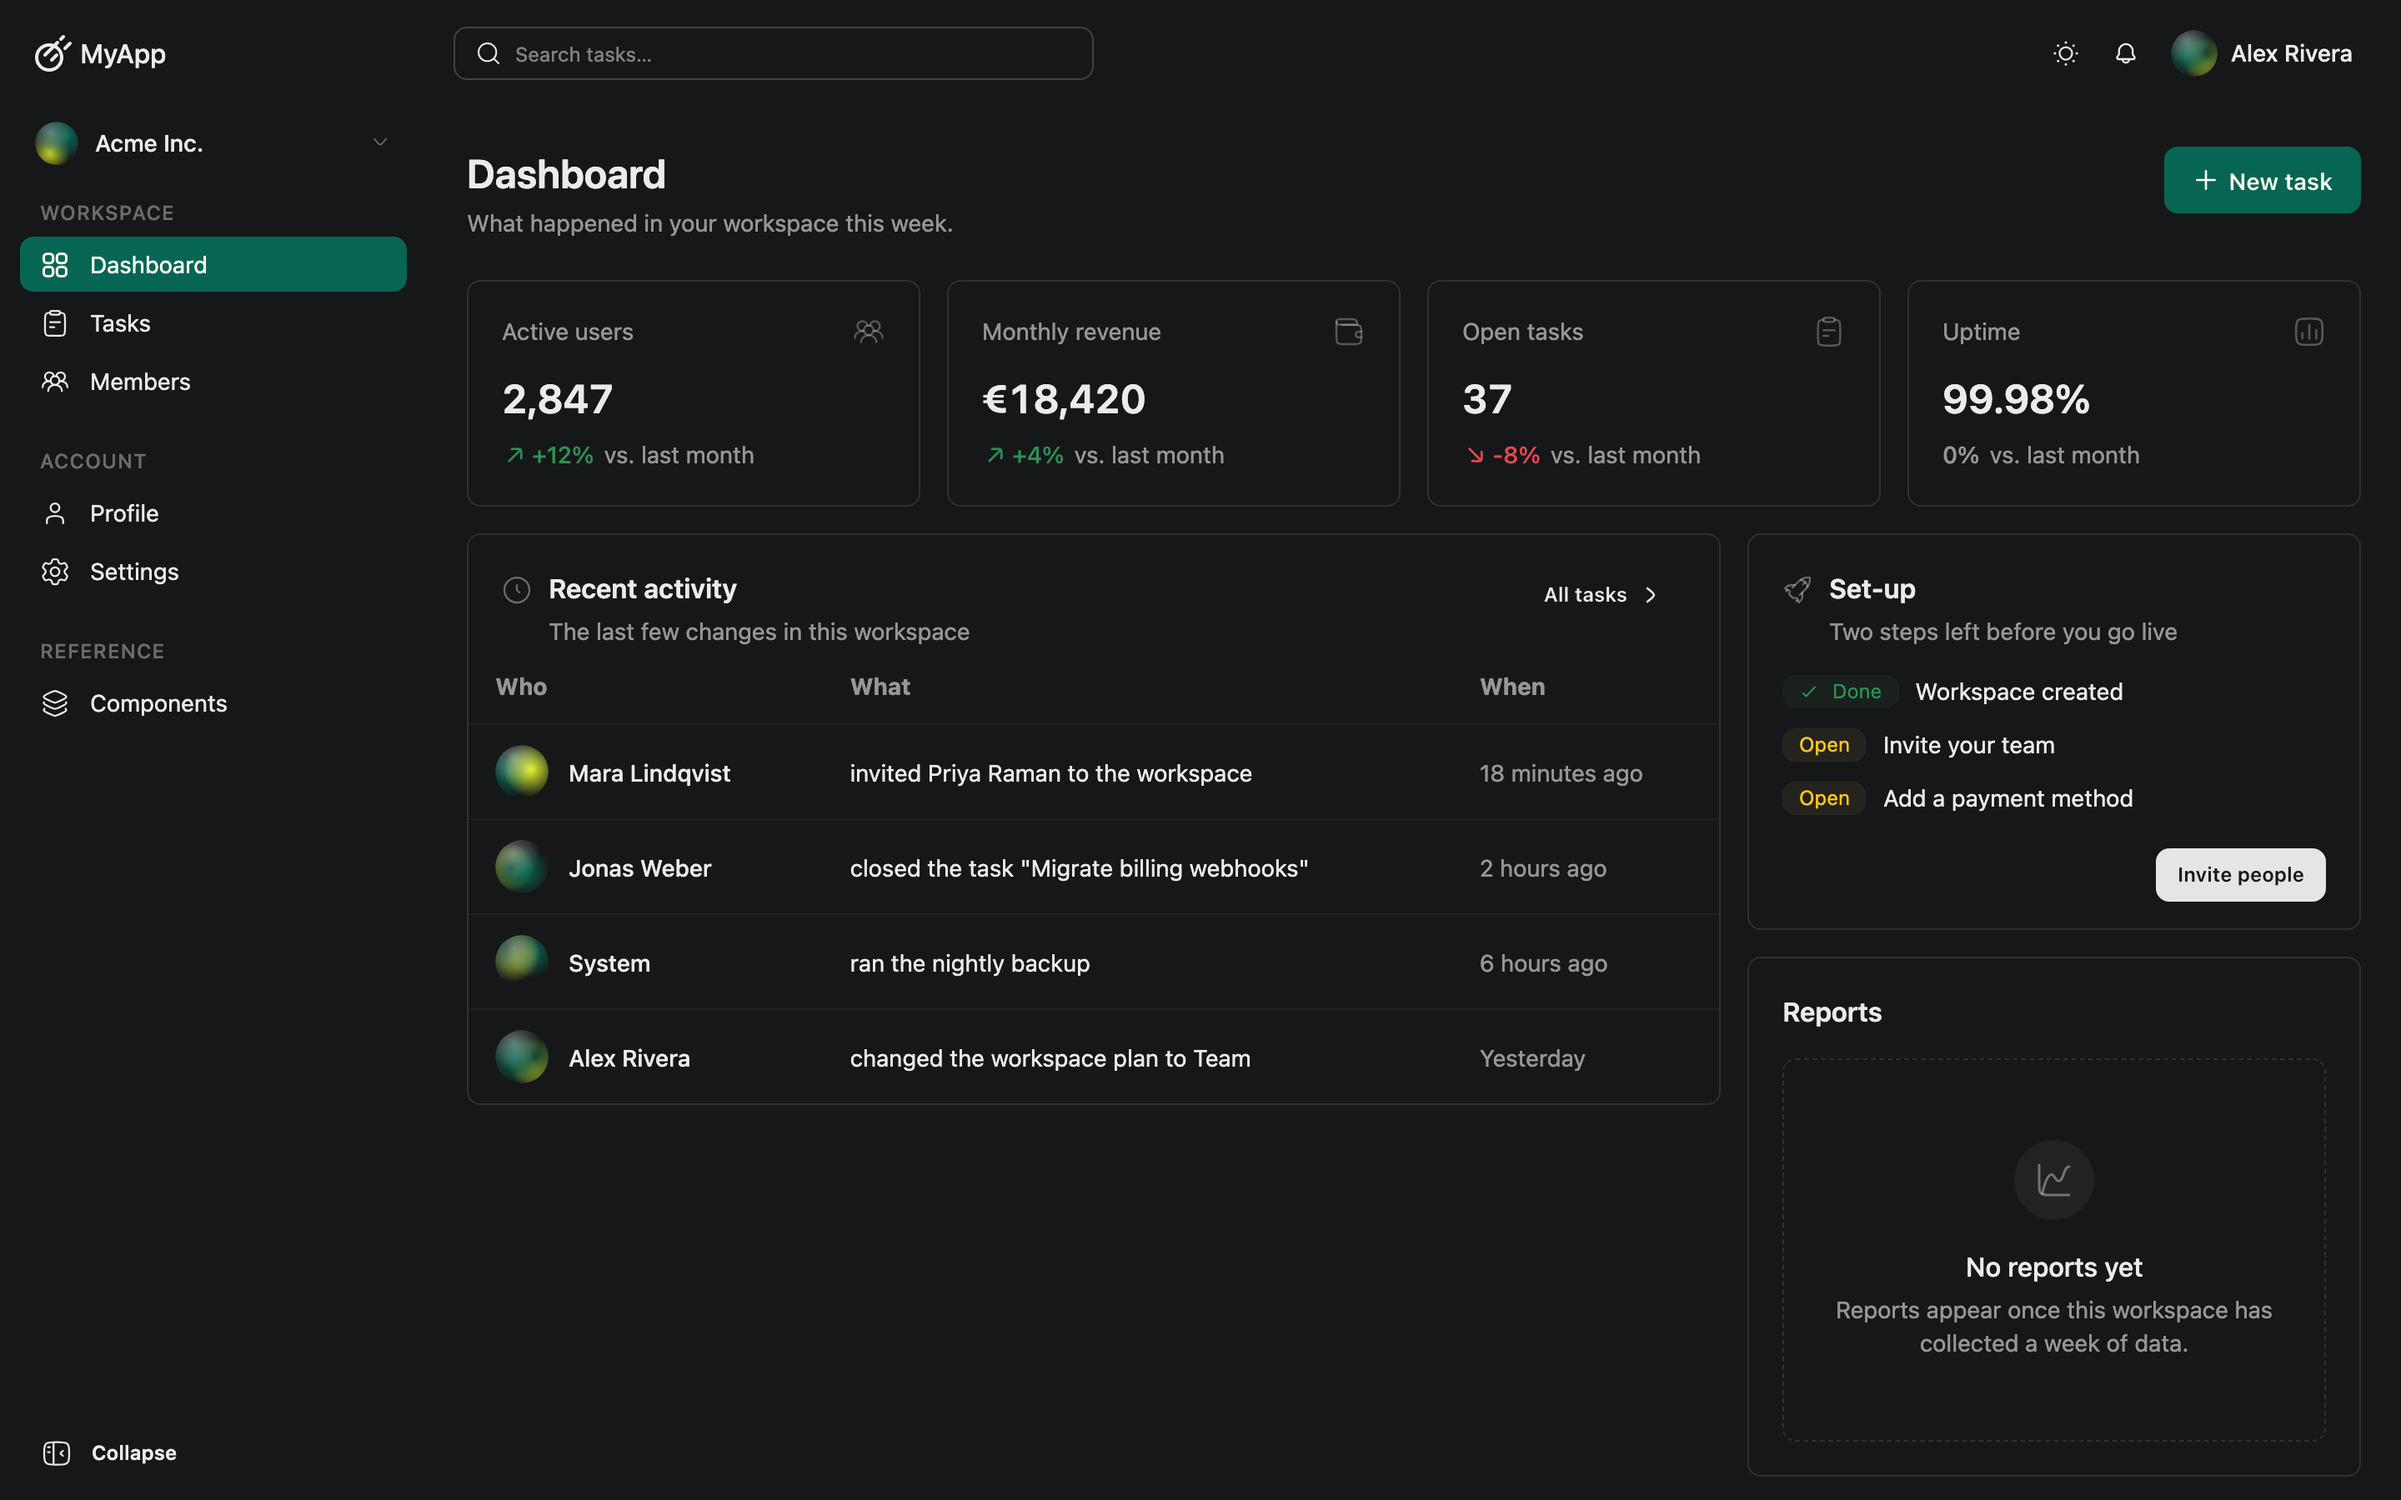
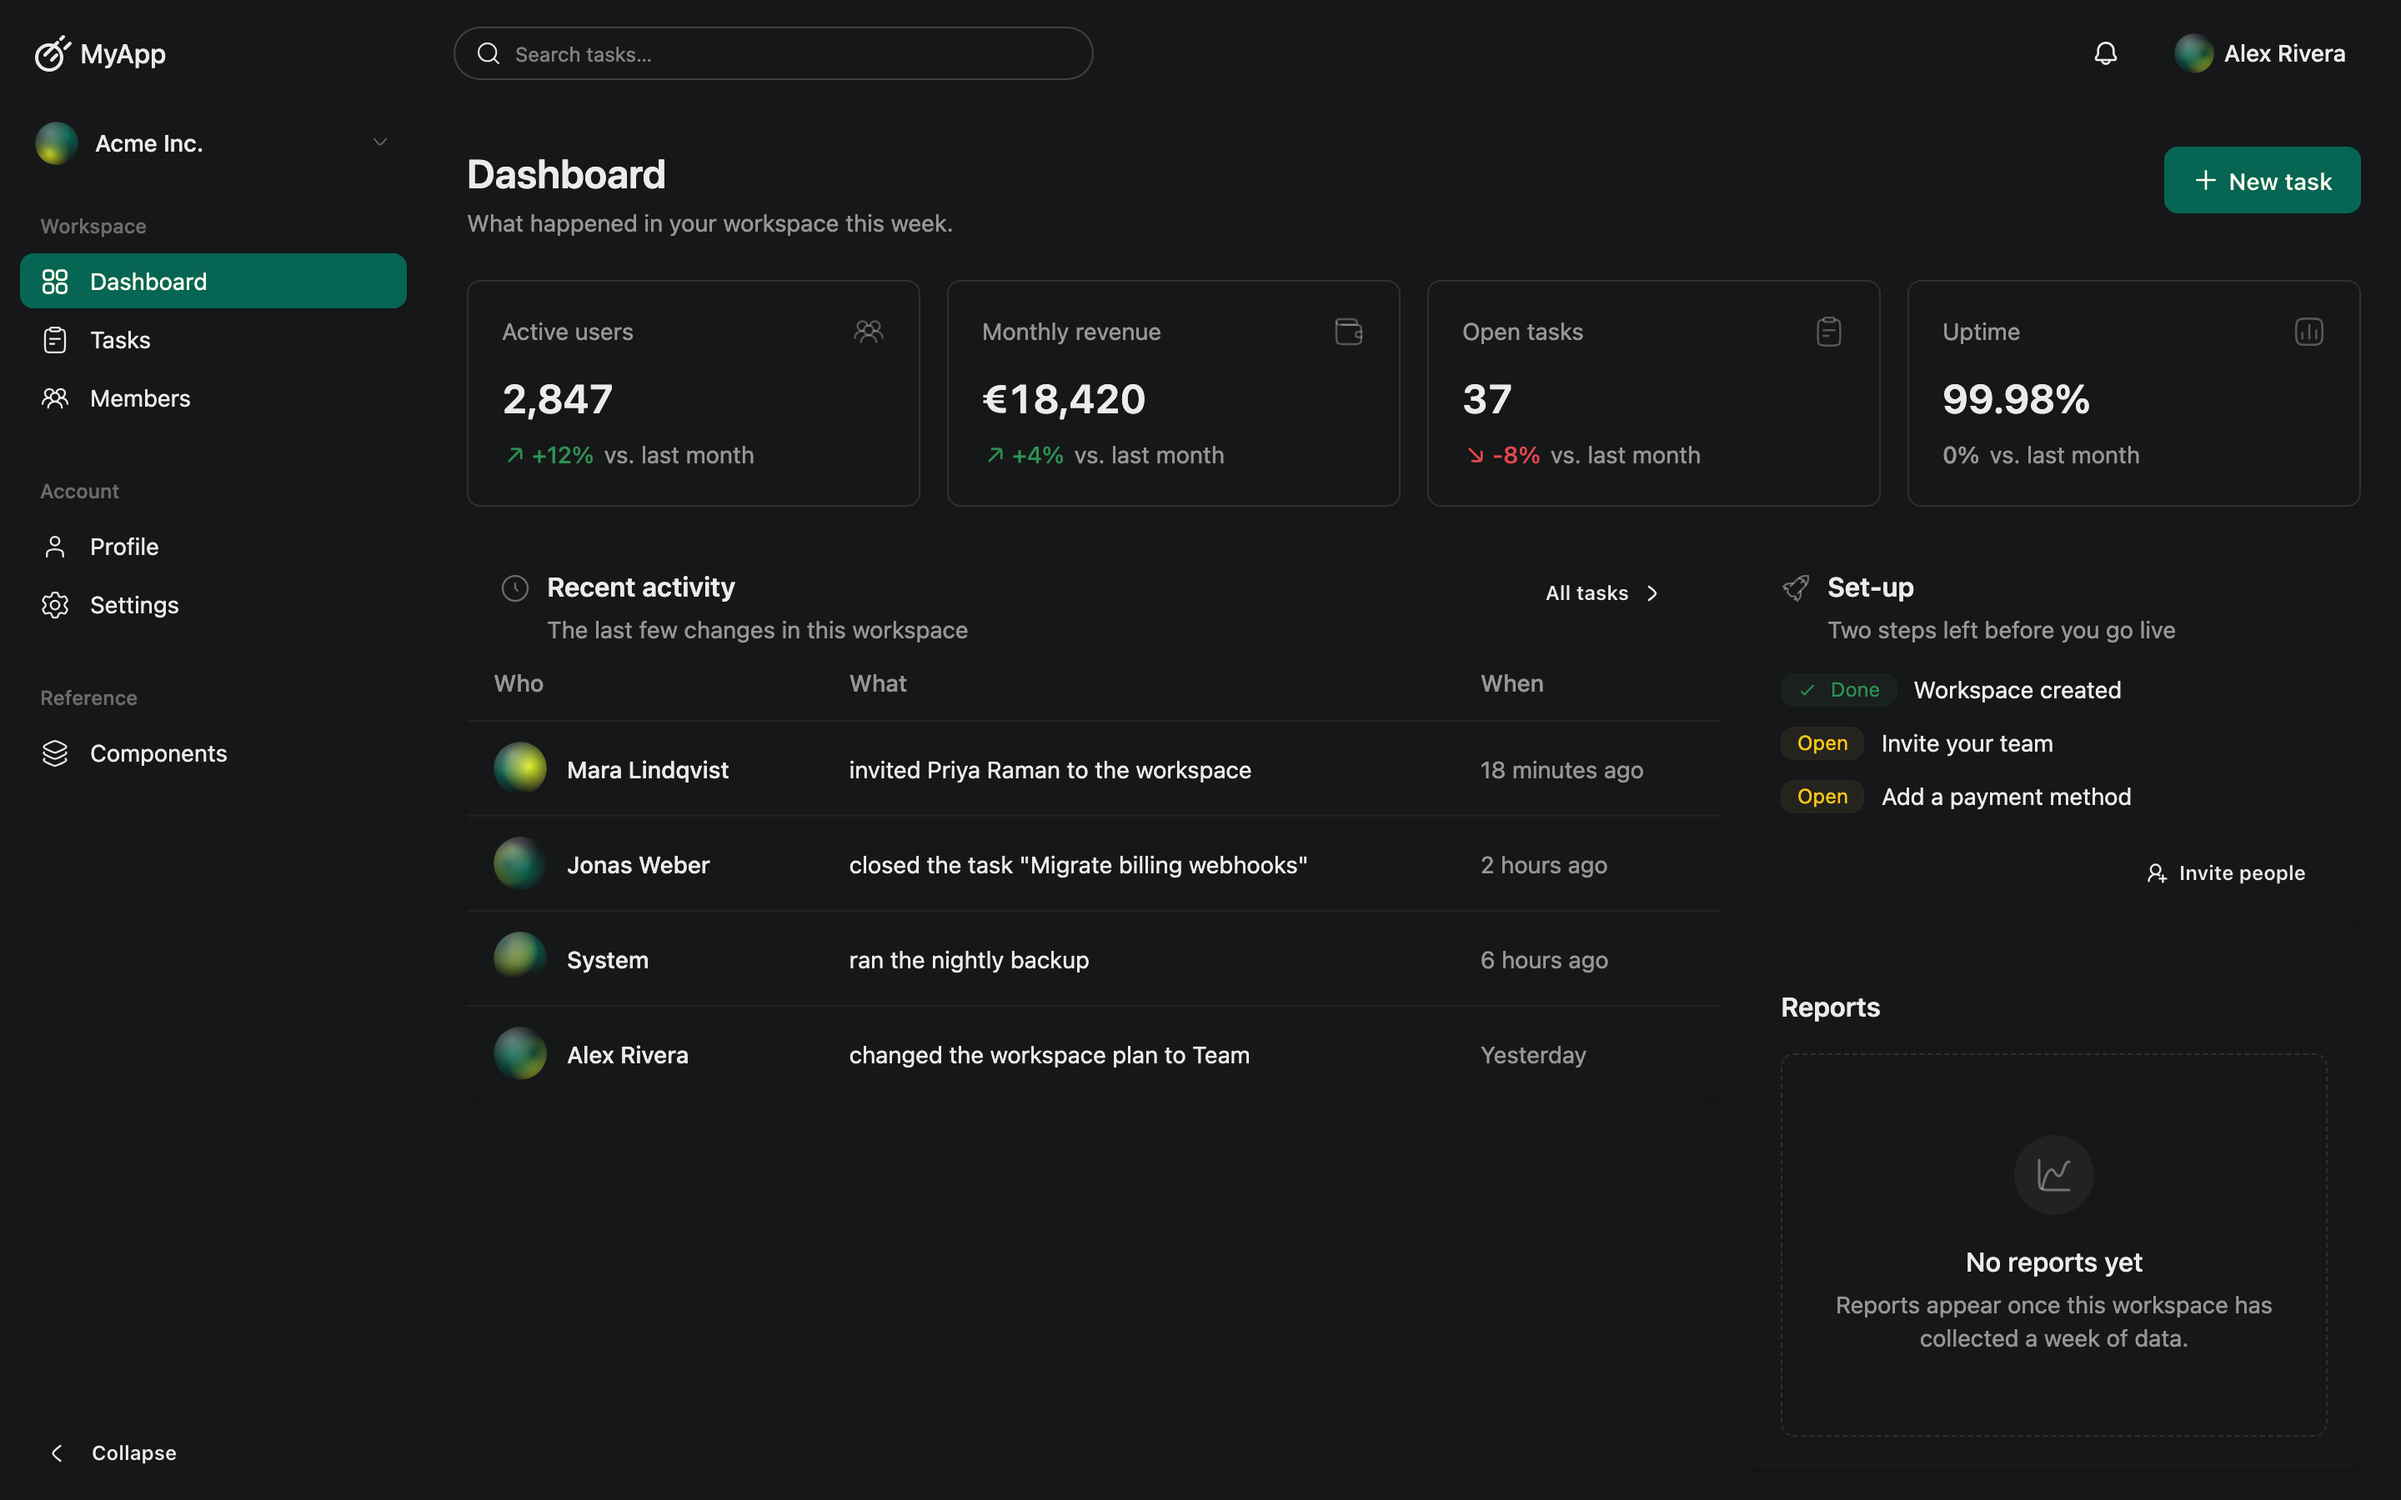
Point the public header at the app when signed in
Sending a signed-in visitor from the landing page to the login form is a
dead end, so the one button in the public header now reads "Dashboard" and
links to the app once there is a session. It reads a new `getIsSignedIn`
query, which returns a boolean and nothing else — that header renders on
pages any visitor can reach, so a name or an email has no business
travelling there.

Also in here:

- Sidebar: the collapse button is the shared Button component now. That
  needed `title` and `ariaExpanded` on Button — the collapsed sidebar hides
  the visible label, so the title carries the accessible name, and
  aria-expanded reports the state.
- Sidebar: the section headings kept their new `menu-title` styling but got
  `sidebar-label` back; without it they stayed visible when collapsed and
  were clipped at 72px.
- UserMenu: dropped an import that was left unused.

Screenshots refreshed for the topbar, sidebar and card tweaks. `login.png`
is unchanged, so it is not in this commit.

diff --git a/src/lib/components/layout/Sidebar.svelte b/src/lib/components/layout/Sidebar.svelte
@@ -1,5 +1,6 @@
 <script lang="ts">
 	import { page } from '$app/state';
+	import Button from '$components/elements/Button.svelte';
 	import Icon from '$components/elements/Icon.svelte';
 	import Logo from './Logo.svelte';
 	import { appNavigation, isActive } from './navigation';
@@ -36,9 +37,9 @@
 	<nav class="flex-1 space-y-6 overflow-y-auto px-3 pb-4">
 		{#each appNavigation as section (section.label)}
 			<div>
-				<p
-					class="sidebar-label px-3 pb-1.5 text-xs font-medium tracking-wider text-base-content/40 uppercase"
-				>
+				<!-- `sidebar-label` is what hides this when the sidebar collapses;
+				     without it the heading stays and gets clipped at 72px. -->
+				<p class="sidebar-label menu-title">
 					{section.label}
 				</p>
 
@@ -70,17 +71,22 @@
 	<!-- Collapsing only exists on the desktop layout; below `lg` the sidebar is an
 	     off-canvas drawer that is either open or gone. -->
 	<div class="hidden shrink-0 p-3 lg:block">
-		<button
+		<Button
 			type="button"
-			class="sidebar-item btn w-full justify-start gap-3 btn-ghost btn-sm"
+			color="ghost"
+			size="sm"
+			class="sidebar-item w-full justify-start gap-3"
 			onclick={() => sidebar.toggle()}
-			aria-expanded={!sidebar.collapsed}
+			ariaExpanded={!sidebar.collapsed}
 			title={sidebar.collapsed ? 'Expand sidebar' : 'Collapse sidebar'}
 		>
-			<span class={['inline-flex transition-transform', sidebar.collapsed && 'rotate-180']}>
-				<Icon name="ArrowLeft01Icon" size={18} />
-			</span>
+			{#snippet iconLeft()}
+				<span class={['inline-flex transition-transform', sidebar.collapsed && 'rotate-180']}>
+					<Icon name="ArrowLeft01Icon" size={18} />
+				</span>
+			{/snippet}
+
 			<span class="sidebar-label">Collapse</span>
-		</button>
+		</Button>
 	</div>
 </aside>

diff --git a/src/lib/remotes/auth.remote.ts b/src/lib/remotes/auth.remote.ts
@@ -4,7 +4,7 @@ import { z } from 'zod';
 import { internalPath } from '$helper/form';
 import { auth } from '$server/auth';
 import { config } from '$server/config';
-import { fail, isAuthError, requestHeaders } from '$server/guard';
+import { fail, isAuthError, requestHeaders, getSession } from '$server/guard';
 import { emailSchema, passwordSchema, personNameSchema } from '$server/schemas';
 
 /**
@@ -27,6 +27,16 @@ const redirectToSchema = z.string().max(500).optional();
 export const getAuthProviders = query(async () =>
 	(['google', 'github'] as const).filter((provider) => config.auth.socialProviders[provider])
 );
+
+/**
+ * Whether anybody is signed in — nothing more.
+ *
+ * The public header uses it to point at the dashboard instead of the login
+ * form. Deliberately a boolean rather than the session: this runs on pages any
+ * visitor can reach, and a name or an email has no business travelling there.
+ * `getSession` never throws, so this is safe to await outside a boundary.
+ */
+export const getIsSignedIn = query(async () => !!(await getSession()));
 
 export const login = form(
 	z.object({

diff --git a/src/routes/(public)/+layout.svelte b/src/routes/(public)/+layout.svelte
@@ -3,8 +3,13 @@
 	import Button from '$components/elements/Button.svelte';
 	import Footer from '$components/layout/Footer.svelte';
 	import Logo from '$components/layout/Logo.svelte';
+	import { getIsSignedIn } from '$remotes/auth.remote';
 
 	let { children }: { children: Snippet } = $props();
+
+	// Sending a signed-in visitor to the login form is a dead end, so the one
+	// button in this header points at the app instead once there is a session.
+	const signedIn = $derived(await getIsSignedIn());
 </script>
 
 <!-- The public surface: landing page, the component showcase and the legal
@@ -14,7 +19,12 @@
 	<header>
 		<div class="mx-auto flex w-full max-w-5xl items-center justify-between gap-4 py-4">
 			<Logo />
-			<Button href="/login" color="primary" size="sm" rounded>Sign in</Button>
+
+			{#if signedIn}
+				<Button href="/dashboard" color="primary" size="sm" rounded>Dashboard</Button>
+			{:else}
+				<Button href="/login" color="primary" size="sm" rounded>Sign in</Button>
+			{/if}
 		</div>
 	</header>
 

diff --git a/src/lib/components/layout/Topbar.svelte b/src/lib/components/layout/Topbar.svelte
@@ -13,7 +13,7 @@
 </script>
 
 <header
-	class="sticky top-0 z-30 flex h-16 shrink-0 items-center gap-2 bg-base-100/50 px-4 backdrop-blur-xs"
+	class="sticky top-0 z-30 flex h-16 shrink-0 items-center gap-2 bg-base-100/90 px-4 backdrop-blur-xs"
 >
 	<!-- The label toggles the drawer checkbox in `AppShell`; it needs no script,
 	     which is why the mobile menu works before hydration. -->
@@ -27,7 +27,7 @@
 
 	<!-- A plain GET form, so pressing Enter navigates even without JavaScript. -->
 	<form method="GET" action="/crud" class="hidden flex-1 md:block">
-		<label class="input max-w-sm input-sm">
+		<label class="input max-w-sm rounded-full input-sm">
 			<Icon name="Search01Icon" size={16} />
 			<input type="search" name="q" placeholder="Search tasks…" aria-label="Search tasks" />
 		</label>
@@ -37,7 +37,6 @@
 		<Button
 			href="/dashboard"
 			color="ghost"
-			size="sm"
 			modifier="circle"
 			icon="Notification01Icon"
 			ariaLabel="Notifications"

diff --git a/src/lib/components/elements/Button.svelte b/src/lib/components/elements/Button.svelte
@@ -51,6 +51,14 @@
 		rounded?: boolean;
 		tooltip?: string;
 		tooltipPosition?: TooltipPosition;
+		/**
+		 * Native browser hint. Unlike `tooltip` (the daisyUI bubble) this is also
+		 * what assistive tech falls back to for the button's name when the visible
+		 * label is hidden — as in the collapsed sidebar.
+		 */
+		title?: string;
+		/** For buttons that toggle something open and shut, e.g. the sidebar. */
+		ariaExpanded?: boolean;
 		responsive?: boolean;
 		preloadData?: boolean;
 	};
@@ -84,6 +92,8 @@
 		tooltip,
 		ariaLabel,
 		tooltipPosition = 'top',
+		title,
+		ariaExpanded,
 		responsive = false,
 		preloadData = true
 	}: Props = $props();
@@ -140,6 +150,8 @@
 	<svelte:element
 		this={href ? 'a' : 'button'}
 		aria-label={ariaLabel}
+		aria-expanded={ariaExpanded}
+		{title}
 		role={href ? 'link' : 'button'}
 		tabindex="0"
 		type={href ? undefined : type}

diff --git a/src/lib/components/layout/UserMenu.svelte b/src/lib/components/layout/UserMenu.svelte
@@ -22,8 +22,8 @@
      state of our own. `keepFocus`/`closeDropdown` handle the browsers that do
      not focus clicked menu items; see `elements/dropdown.ts`. -->
 <div class="dropdown dropdown-end">
-	<div tabindex="0" role="button" class="btn h-10 gap-2 btn-ghost px-1.5 sm:pr-3">
-		<Avatar {name} src={avatar} size={28} />
+	<div tabindex="0" role="button" class="btn rounded-full btn-ghost">
+		<Avatar {name} src={avatar} size={24} />
 		<span class="hidden max-w-32 truncate text-sm font-medium sm:inline">{name}</span>
 	</div>
 

diff --git a/src/lib/css/main.css b/src/lib/css/main.css
@@ -104,6 +104,14 @@
 	@apply hover:text-base-100;
 }
 
+.menu-title {
+	@apply text-xs font-medium text-base-content/40;
+}
+
+th {
+	@apply text-left text-sm font-medium text-base-content/60;
+}
+
 /*
  * The app sidebar collapses to icon width. The state lives in `data-sidebar` on
  * `<html>` rather than in a Svelte class, so the inline script in `app.html` can

diff --git a/src/routes/(app)/dashboard/+page.svelte b/src/routes/(app)/dashboard/+page.svelte
@@ -81,7 +81,7 @@
 			</ul>
 
 			{#snippet footer()}
-				<Button href="/team" color="neutral" size="sm">Invite people</Button>
+				<Button href="/team" color="ghost" size="sm" icon="UserAdd01Icon">Invite people</Button>
 			{/snippet}
 		</Card>
 

diff --git a/src/lib/components/elements/Card.svelte b/src/lib/components/elements/Card.svelte
@@ -56,7 +56,7 @@
      within its own `overflow-x-auto`. -->
 <section
 	class={[
-		'not-prose card min-w-0 border bg-base-100',
+		'not-prose card min-w-0 shadow-sm',
 		tone ? borderMap[tone] : 'border-base-300',
 		className
 	]}
